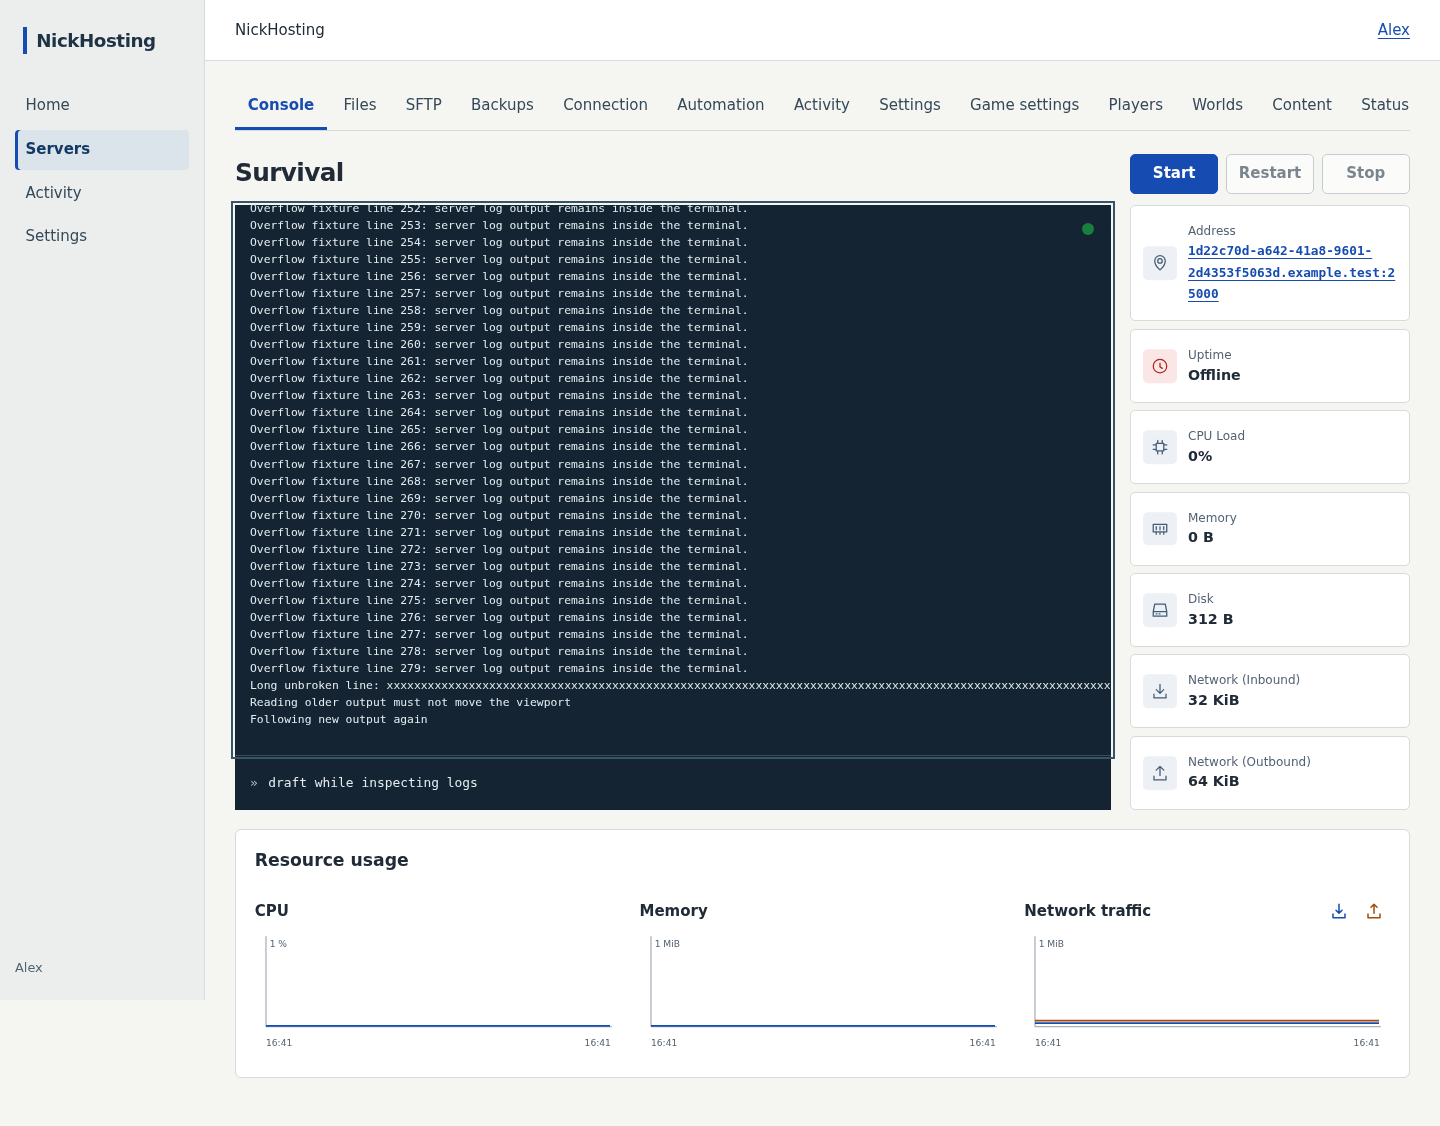
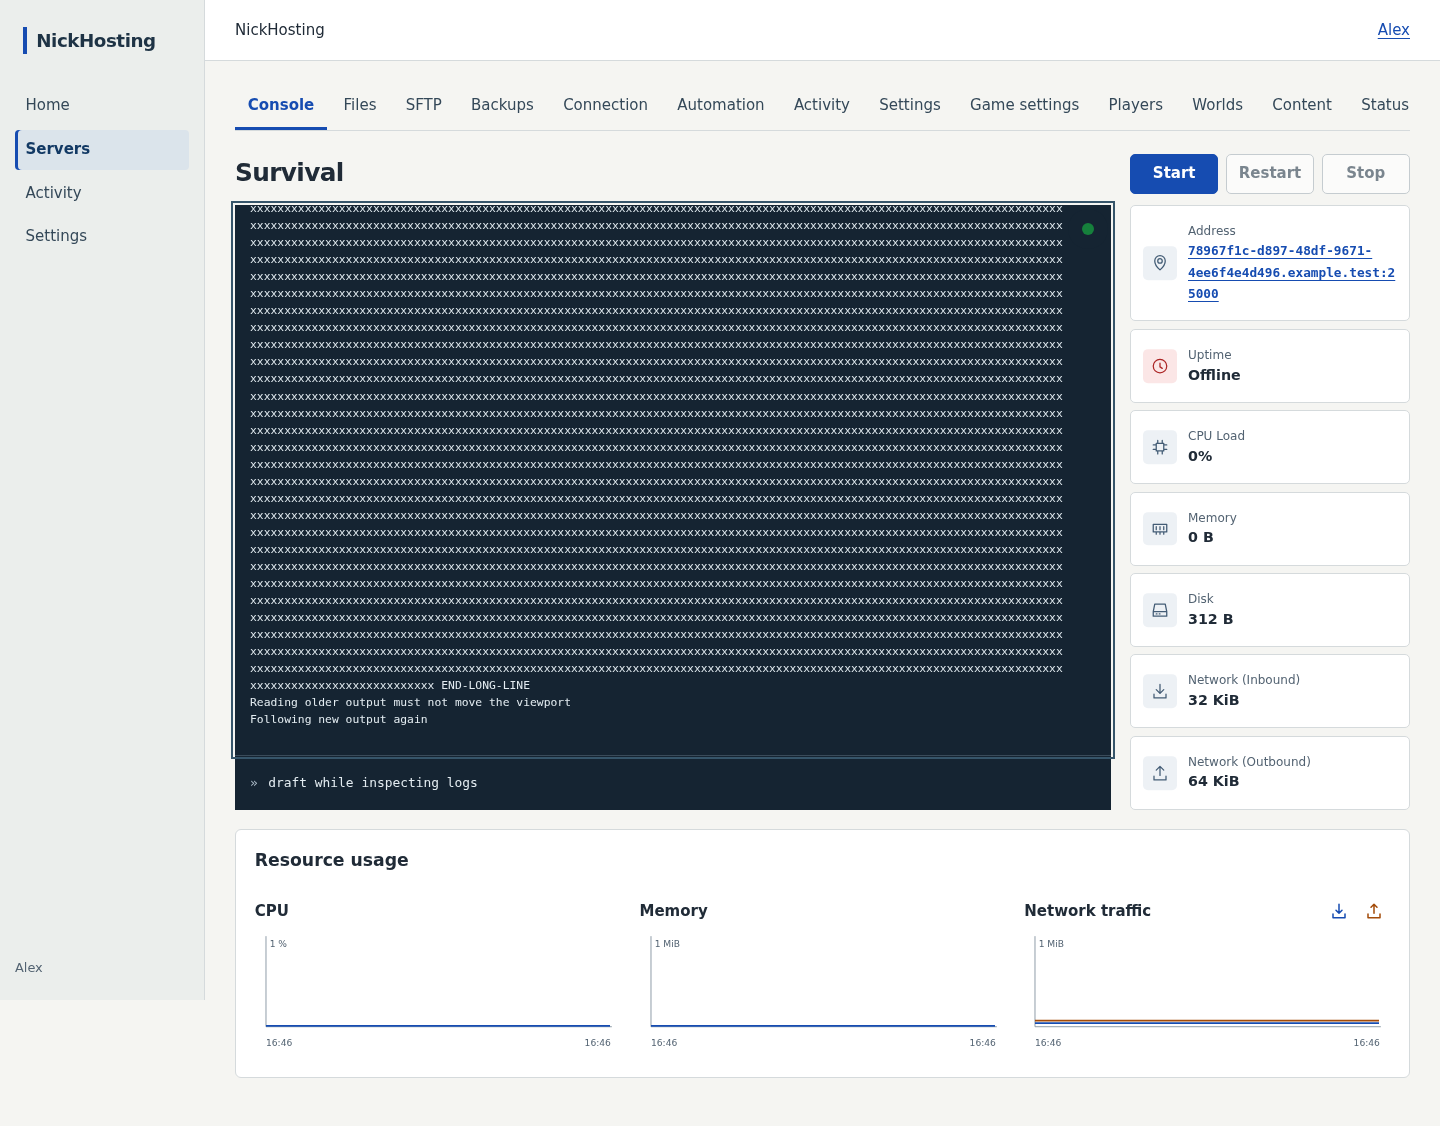
fix(web): wrap console output without horizontal scrolling

Changed region(s): [[0.1562, 0.1865, 0.75, 0.6217], [0.8125, 0.2176, 0.9062, 0.2487]]

diff --git a/apps/web/tests/console-overflow.browser.test.ts b/apps/web/tests/console-overflow.browser.test.ts
@@ -109,7 +109,7 @@ describe('M5 Console bounded output', () => {
       expect(Math.abs(after.bodyHeight - before.bodyHeight)).toBeLessThanOrEqual(1);
       expect(after.bodyWidth).toBeLessThanOrEqual(after.viewportWidth);
       expect(after.scrollHeight).toBeGreaterThan(after.clientHeight + 1000);
-      expect(after.scrollWidth).toBeGreaterThan(after.clientWidth);
+      expect(after.scrollWidth).toBeLessThanOrEqual(after.clientWidth);
       expect(after.prompt.y).toBeGreaterThanOrEqual(after.output.y + after.output.height - 1);
       expect(after.prompt.y + after.prompt.height).toBeLessThanOrEqual(
         after.terminal.y + after.terminal.height + 1,

diff --git a/apps/web/src/app/style.css b/apps/web/src/app/style.css
@@ -481,6 +481,10 @@
     font-size: 0.86rem;
     line-height: 1.5;
   }
+  .console pre {
+    white-space: pre-wrap;
+    overflow-wrap: anywhere;
+  }
   .console-workspace {
     display: grid;
     grid-template-columns: minmax(0, 1fr) 280px;

diff --git a/docs/M5-VALIDATION.md b/docs/M5-VALIDATION.md
@@ -3816,3 +3816,20 @@ existing approved test services. Disposable fixtures were cleaned. No production
 interactions, container restarts or infrastructure changes. No historical full
 suite was rerun for this CSS correction. Rollback is a source revert. SFTPGo #18
 and the open/unmerged status of PR #21 are unchanged.
+
+### 2026-10-11 — Console word wrapping
+
+Follow-up to the viewport correction: horizontal scrolling is replaced by word
+wrapping, including unbroken tokens. The nested `pre` now explicitly uses
+`white-space: pre-wrap` and `overflow-wrap: anywhere`; explicit log newlines and
+spacing remain intact. The prior horizontal-scroll evidence above records the
+previous behavior, superseded by this requirement.
+
+Re-ran only `scripts/dev.sh pnpm exec tsx scripts/test-env.ts --m2 pnpm exec vitest run --config vitest.browser.config.ts apps/web/tests/console-overflow.browser.test.ts`:
+**2/2 passed** (17.48s). Desktop/mobile now assert `scrollWidth <= clientWidth`
+with the 8,000-character token, while retaining stable geometry, vertical scroll,
+keyboard/focus, follow/pause and Axe checks. Existing screenshots above refreshed;
+mobile wrapping visually inspected. Scoped Biome passed with the same three
+pre-existing warnings; independent review found no issues. No production or
+infrastructure changes, no restart. Isolated fixtures cleaned. Rollback: revert
+this scoped CSS/test change.

diff --git a/docs/FRONTEND-I18N.md b/docs/FRONTEND-I18N.md
@@ -76,8 +76,8 @@ Output follows automatically while scrolled to the bottom; scrolling up pauses
 following, and returning to the bottom resumes it. No follow checkbox is needed.
 The output pane uses 55% of the small viewport height, bounded to 360–680px,
 with internal scrolling and a separately visible command prompt. Appended output
-does not resize the terminal or the page; long lines scroll horizontally inside
-the output pane. Explicit zero-length flex sizing keeps this true inside the
+does not resize the terminal or the page; long lines wrap inside
+the output pane, including words without spaces, without horizontal scrolling. Explicit zero-length flex sizing keeps this true inside the
 auto-sized desktop grid and mobile layout.
 Authorized commands use an integrated `»` prompt with a localized placeholder
 and accessible name. Enter submits, preserving focus; failed requests retain the
